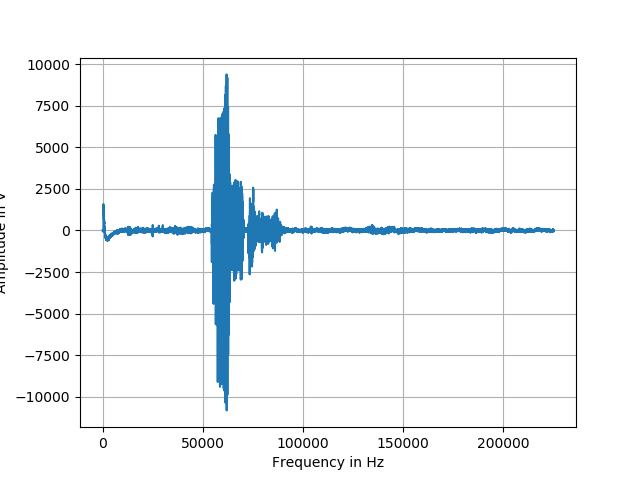
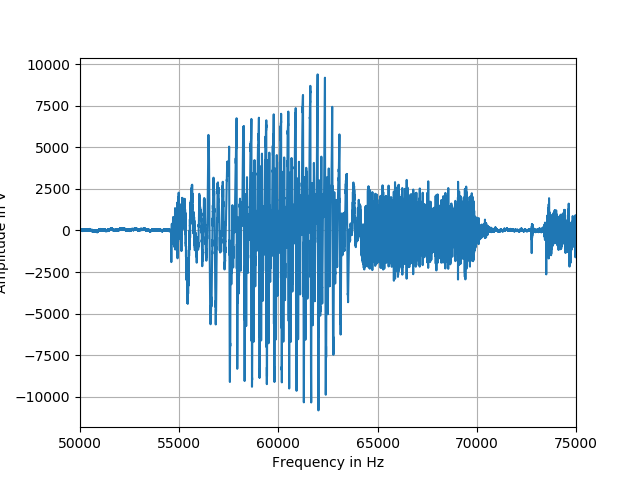
Added apmlitudenspektrum in a smaller window

diff --git a/Versuch4/task1.3.py b/Versuch4/task1.3.py
@@ -13,6 +13,15 @@ plt.ylabel('Amplitude in V')
 plt.savefig('data/img/testamp.png')
 plt.show()
 
+# Darstellung des Amplitudenspektrums
+plt.plot(data)
+plt.grid()
+plt.xlabel('Frequency in Hz')
+plt.ylabel('Amplitude in V')
+plt.xlim(50000, 75000)
+plt.savefig('data/img/testamp.png')
+plt.show()
+
 # Der zweite Wert wird absolut minus den ersten absoluten wert gerechnet um später den Wert
 difference = 2 / 225280
 # Die zweite Spalte der .csv Datei wird Fouriertransformiert
